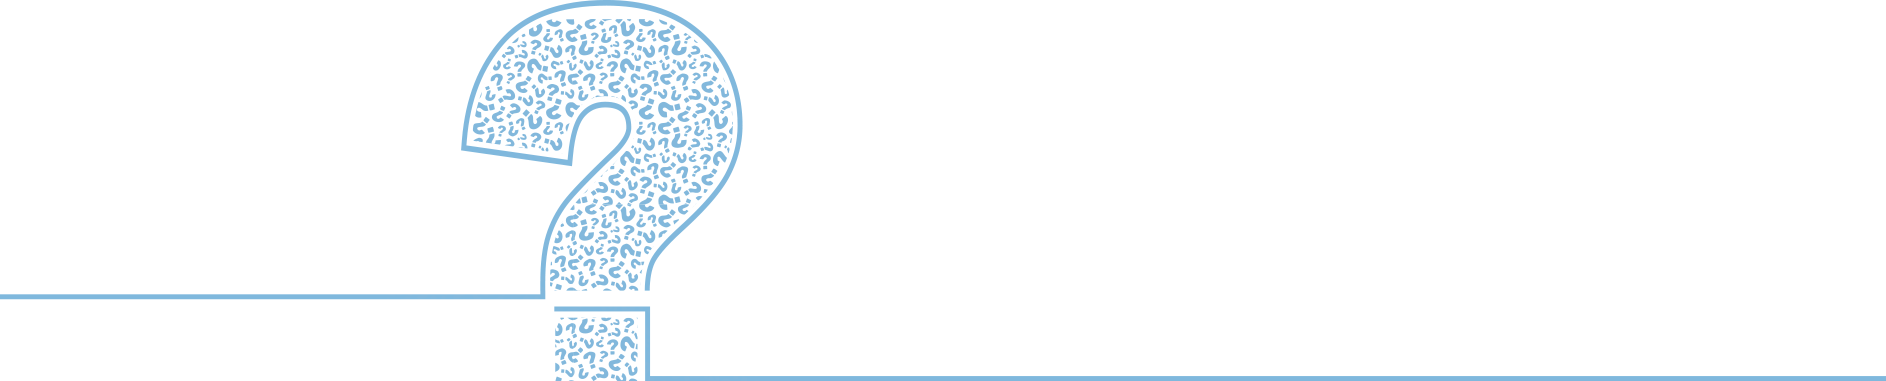
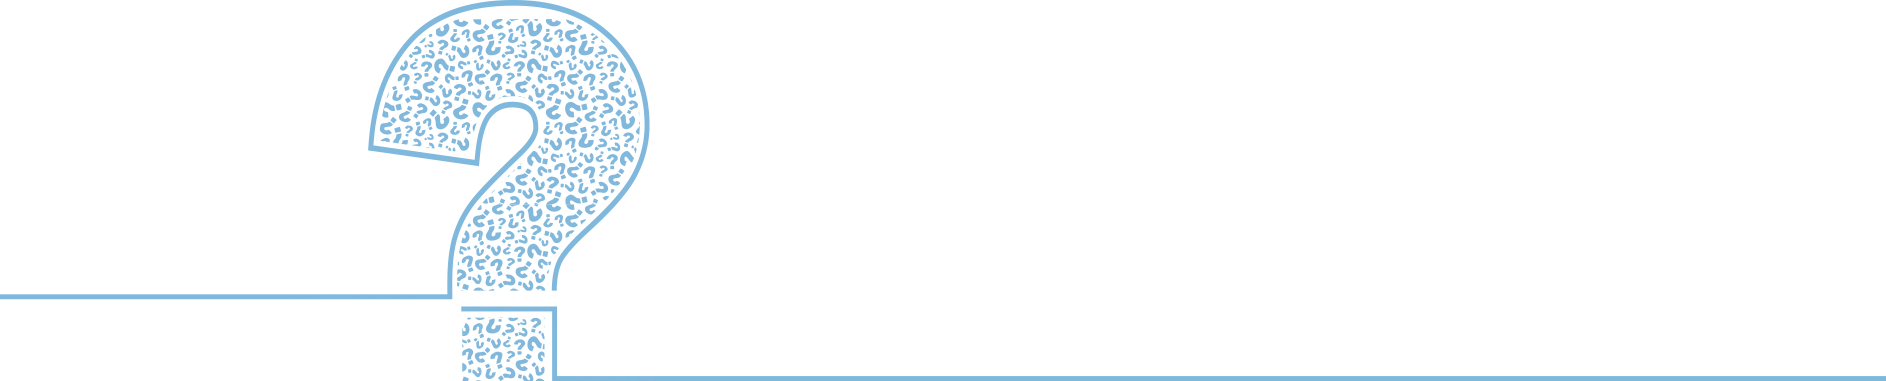
edits: fixed bg - made it wide

Changed region(s): [[0.1845, 0.0, 0.3998, 1.0]]

diff --git a/src/sass/modules/page-vendors/vendor-00_main/modules/_interrogation.scss b/src/sass/modules/page-vendors/vendor-00_main/modules/_interrogation.scss
@@ -1,6 +1,6 @@
 .page-index .interrogation {
   // bg 1
-  background: url("../img/interrogation_foreground.png") no-repeat left -85px top -90px,
+  background: url("../img/interrogation_foreground.png") no-repeat center top -90px,
               url('../img/interrogation_bg.jpg');
   box-shadow: 2px 2px 7px 0px rgba(68, 67, 65, 0.21);
   position: relative;
@@ -12,7 +12,7 @@
   & .shell {
     margin: 0 auto;
     max-width: 1160px;
-    // background:
+    // background: url("../img/interrogation_foreground.png") no-repeat left -460px top -90px;
 
     padding: 0 20px;
 
